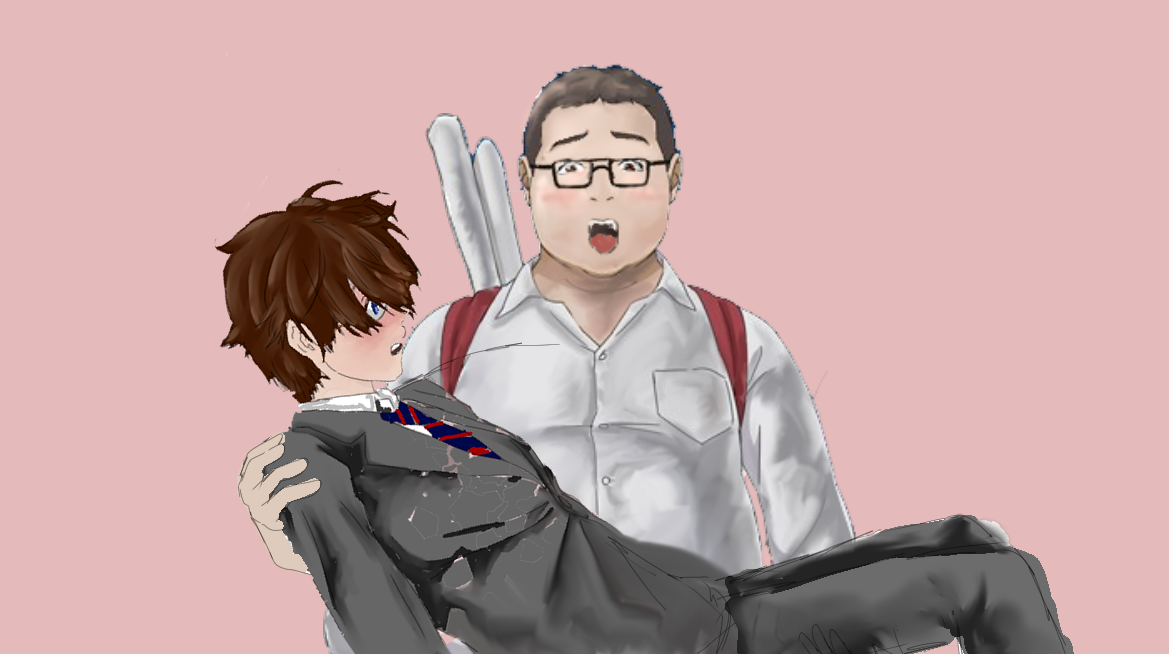
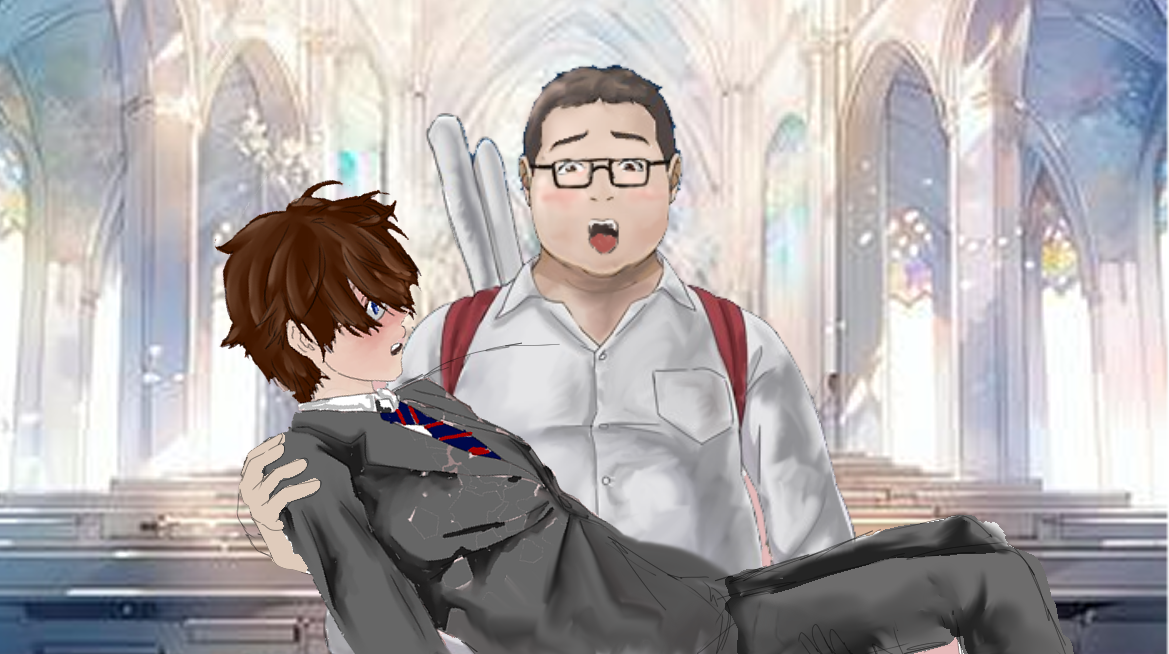
complete classroom ending

diff --git a/classroom_end_scene.c b/classroom_end_scene.c
@@ -9,13 +9,22 @@ Dialogue classroom_classmate_end_dialogue[] = {
     {5, 1, 0, 0, "真的是又體貼又幽默又認真 這些都是我上網看女生會喜歡的條件啊"},
     {6, 1, 0, 1, "不過... 要跟你當朋友以上的關係也不是不可以拉．．．．．．"},
 };
+Dialogue classroom_goddess_end_dialogue[] = {
+    {0, 1, 3, 0, "你讀...你居然讀交大嗎"},
+    {1, 1, 3, 0, "那是哪一間啊，是在陽明山下那一間嗎，\n還是紐約市大學(NYC University)啊"},
+    {2, 1, 3, 0, "我好像有朋友學測少考一科才會到那邊去，\n他現在已經在準備明年重考了"},
+    {3, 1, 3, 0, "我沒辦法跟這種學店的人當朋友，\n拜託你今天當作沒有碰到我"},
+};
 int classroom_end_dialogue_index = 0;  
 int classroom_end_dialogue_counter = 0;  
 
 void classroom_end_scene_init() {
     classroom_end_dialogue_index = 0;
     classroom_end_dialogue_counter = 0;
-    drawSakura = true;
+
+    if (end_option == 0) {
+        drawSakura = true;
+    }
 }
 
 void classroom_end_scene_process(ALLEGRO_EVENT event) {
@@ -25,11 +34,22 @@ void classroom_end_scene_process(ALLEGRO_EVENT event) {
     }
 }
 
-void classroom_end_scene_draw() {
-    al_draw_bitmap(main_background, 0, 0, 0);
-    
-    Dialogue current_dialog = classroom_classmate_end_dialogue[classroom_end_dialogue_index];
-    display_dialog(current_dialog, &classroom_end_dialogue_counter, true);
+void classroom_end_scene_draw() {    
+    if (end_option == 0) {
+        if (classroom_end_dialogue_index <= 6) {
+            al_draw_bitmap(main_background, 0, 0, 0);
+            Dialogue current_dialog = classroom_classmate_end_dialogue[classroom_end_dialogue_index];
+            display_dialog(current_dialog, &classroom_end_dialogue_counter, true);
+        } else {
+            al_draw_scaled_bitmap(end_bitmaps[0][0][1], 0, 0, al_get_bitmap_width(end_bitmaps[0][0][1]), al_get_bitmap_height(end_bitmaps[0][0][1]), 0, 0, WIDTH, HEIGHT, 0);
+        }
+    } else if (end_option == 1) {
+        al_draw_scaled_bitmap(end_bitmaps[2][1][0], 0, 0, al_get_bitmap_width(end_bitmaps[2][1][0]), al_get_bitmap_height(end_bitmaps[2][1][0]), 0, 0, WIDTH, HEIGHT, 0);
+        if (classroom_end_dialogue_index < 4) {
+            Dialogue current_dialog = classroom_goddess_end_dialogue[classroom_end_dialogue_index];
+            display_dialog(current_dialog, &classroom_end_dialogue_counter, true);
+        }
+    }
 }
 
 void classroom_end_scene_destroy() {

diff --git a/classroom_scene.c b/classroom_scene.c
@@ -74,7 +74,7 @@ void classroom_scene_process(ALLEGRO_EVENT event) {
     if (classroom_dialogue_index == 6 && event.type == ALLEGRO_EVENT_KEY_DOWN) {
         if (event.keyboard.keycode == ALLEGRO_KEY_1) {
             scene_option = 2;
-            end_option = 1;
+            end_option = 0;
             judge_next_window = true;
         } else if (event.keyboard.keycode == ALLEGRO_KEY_2) {
             classroom_dialogue_index++;
@@ -119,7 +119,7 @@ void classroom_scene_process(ALLEGRO_EVENT event) {
     } else if (classroom_dialogue_index == 22 && event.type == ALLEGRO_EVENT_KEY_DOWN) {
         if (event.keyboard.keycode == ALLEGRO_KEY_1) {
             scene_option = 2;
-            end_option = 2;
+            end_option = 1;
             judge_next_window = true;
         } else if (event.keyboard.keycode == ALLEGRO_KEY_2) {
             classroom_dialogue_index++;

diff --git a/outside_end_scene.c b/outside_end_scene.c
@@ -24,6 +24,8 @@ int outside_end_dialogue_index = 0;
 int outside_end_dialogue_counter = 0;
 
 void outside_end_scene_init(){
+    outside_end_dialogue_index = 0;
+    outside_end_dialogue_counter = 0;
     drawSakura = true;
 }
 
